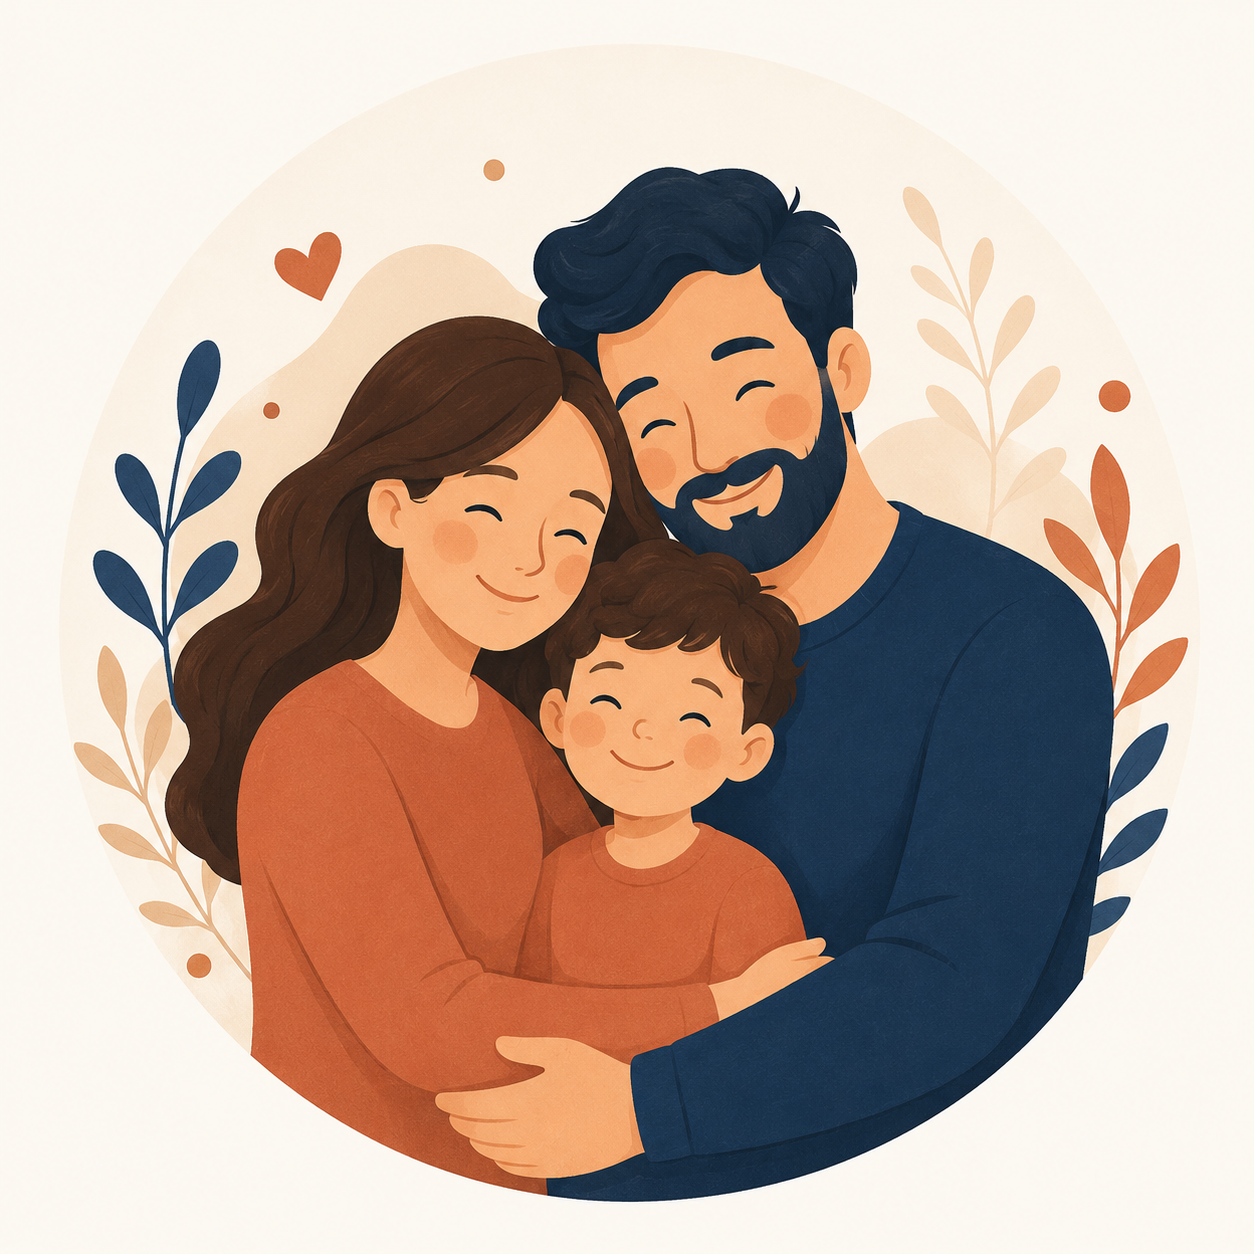
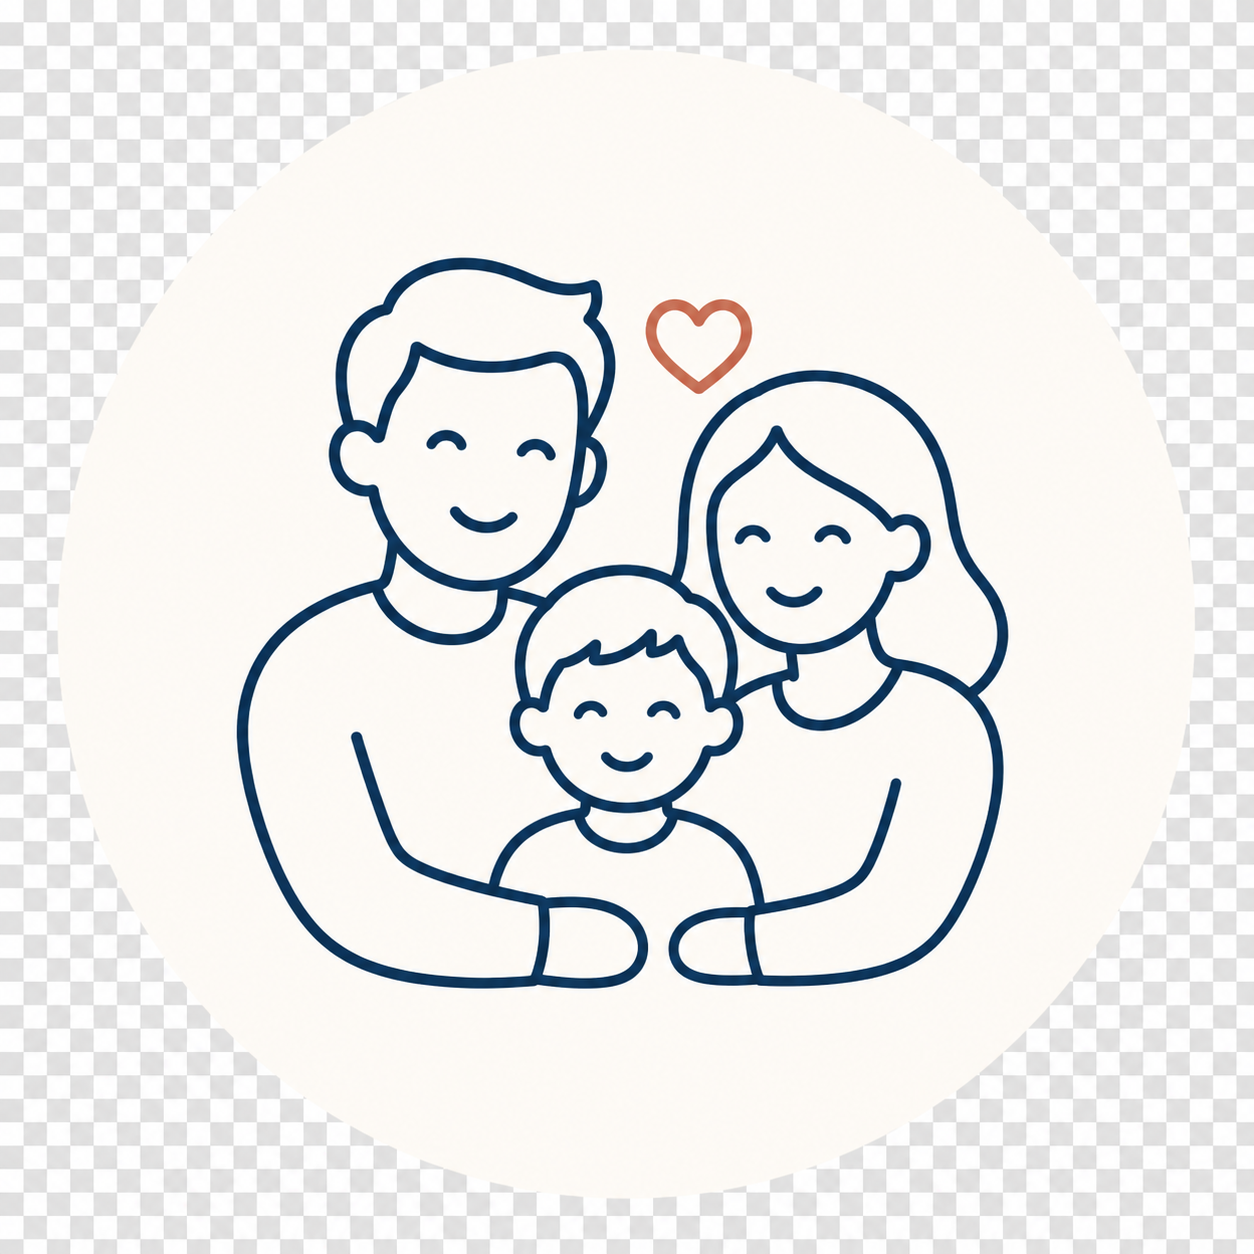
Finalize homepage visual polish and content updates
Homepage refinements:
- Reworked Why Choose Us cards to use custom image assets
- Updated Local Area action cards to use custom sea, bike and bus images
- Improved room cards to better match the site visual language
- Curated room gallery to selected WEBP images only
- Added gallery shuffle on load and continuous looping behavior
- Refined Google review card branding and local area popups
- Repositioned and polished the Local Area section

Rules page:
- Rewrote house rules in a clearer and friendlier PL/EN/DE structure
- Added key stay highlights, contact details and payment information
- Unified phone number and improved footer payment copy

Technical:
- Bumped asset version for cache busting
- Kept translations and interactions in sync across the site

diff --git a/index.html b/index.html
@@ -392,12 +392,7 @@
           <div class="local-area-actions">
             <article class="local-area-action-card">
               <div class="local-area-action-icon" aria-hidden="true">
-                <svg viewBox="0 0 48 48" fill="none">
-                  <circle cx="24" cy="15" r="5.5" stroke="currentColor" stroke-width="1.8"/>
-                  <path d="M24 4.5V8.5M34.6 8.9L31.8 11.7M39 19.5H35M13 19.5H9M16.2 11.7L13.4 8.9" stroke="currentColor" stroke-width="1.8" stroke-linecap="round"/>
-                  <path d="M8 31C12.5 28 17 28 21.5 31C26 34 30.5 34 35 31C39.5 28 44 28 48.5 31" stroke="currentColor" stroke-width="1.8" stroke-linecap="round"/>
-                  <path d="M4 37C9 34 14 34 19 37C24 40 29 40 34 37C39 34 44 34 49 37" stroke="currentColor" stroke-width="1.4" stroke-linecap="round" opacity=".75"/>
-                </svg>
+                <img src="img/sea.png" alt="">
               </div>
               <h3 data-i18n="area_item1_title">Plaża i atrakcje</h3>
               <p data-i18n="area_item1_text">Szeroka plaża, spacery i nadmorskie atrakcje w okolicy.</p>
@@ -406,12 +401,7 @@
 
             <article class="local-area-action-card">
               <div class="local-area-action-icon" aria-hidden="true">
-                <svg viewBox="0 0 48 48" fill="none">
-                  <circle cx="15.5" cy="31.5" r="6.5" stroke="currentColor" stroke-width="1.8"/>
-                  <circle cx="32.5" cy="31.5" r="6.5" stroke="currentColor" stroke-width="1.8"/>
-                  <path d="M15.5 31.5L23 18H28.5L32.5 31.5M23 18L30 31.5M19.5 18H12.5" stroke="currentColor" stroke-width="1.8" stroke-linecap="round" stroke-linejoin="round"/>
-                  <path d="M29.5 13.5H34.5" stroke="currentColor" stroke-width="1.8" stroke-linecap="round"/>
-                </svg>
+                <img src="img/bike.png" alt="">
               </div>
               <h3 data-i18n="area_item2_title">Trasy rowerowe</h3>
               <p data-i18n="area_item2_text">Rodzinne przejażdżki i ciekawe trasy w stronę Kołobrzegu oraz Dźwirzyna.</p>
@@ -420,12 +410,7 @@
 
             <article class="local-area-action-card">
               <div class="local-area-action-icon" aria-hidden="true">
-                <svg viewBox="0 0 48 48" fill="none">
-                  <rect x="13" y="9" width="22" height="24" rx="5" stroke="currentColor" stroke-width="1.8"/>
-                  <path d="M18 15H30M18 21H30M16 38L20.5 33.5M32 38L27.5 33.5" stroke="currentColor" stroke-width="1.8" stroke-linecap="round"/>
-                  <circle cx="19" cy="27" r="1.6" fill="currentColor"/>
-                  <circle cx="29" cy="27" r="1.6" fill="currentColor"/>
-                </svg>
+                <img src="img/bus.png" alt="">
               </div>
               <h3 data-i18n="area_item3_title">Transport</h3>
               <p data-i18n="area_item3_text">Sprawdź trasę do Domu Latarnika i wygodnie zaplanuj dojazd.</p>

diff --git a/assets/index.css b/assets/index.css
@@ -874,12 +874,25 @@
       height:112px;
       border-radius:999px;
       margin-bottom:18px;
+      overflow:hidden;
       background:radial-gradient(circle at 35% 35%,#fff8f0 0%,#f9efe1 100%);
       color:var(--navy);
+      box-shadow:0 12px 26px rgba(14,40,64,.12);
+      transition:transform .4s ease,box-shadow .4s ease;
     }
-    .local-area-action-icon svg{
-      width:50px;
-      height:50px;
+    .local-area-action-icon img{
+      width:100%;
+      height:100%;
+      object-fit:cover;
+      transform:scale(1.02);
+      transition:transform .45s ease;
+    }
+    .local-area-action-card:hover .local-area-action-icon{
+      transform:scale(1.05);
+      box-shadow:0 16px 30px rgba(14,40,64,.16);
+    }
+    .local-area-action-card:hover .local-area-action-icon img{
+      transform:scale(1.12);
     }
     .local-area-action-card h3{
       margin:0 0 8px;
@@ -1205,25 +1218,53 @@
       gap:22px;
     }
     .room-card{
+      display:flex;
+      flex-direction:column;
+      padding:14px;
       overflow:hidden;
+      background:linear-gradient(180deg,#fff 0%,#fcfaf6 100%);
+      box-shadow:0 18px 38px rgba(14,40,64,.1);
+      transition:transform .32s ease, box-shadow .32s ease, border-color .32s ease;
+      border:1px solid rgba(21,57,85,.08);
     }
     .room-card img{
       width:100%;
-      aspect-ratio:4/3;
+      aspect-ratio:5/4;
       object-fit:cover;
+      border-radius:18px;
+      box-shadow:0 10px 24px rgba(14,40,64,.1);
+      transition:transform .45s ease, filter .3s ease;
+    }
+    .room-card:hover{
+      transform:translateY(-5px);
+      box-shadow:0 24px 44px rgba(14,40,64,.14);
+      border-color:rgba(183,110,83,.18);
+    }
+    .room-card:hover img{
+      transform:scale(1.03);
+      filter:saturate(1.02);
     }
     .room-body{
-      padding:22px;
+      padding:20px 10px 8px;
+      display:flex;
+      flex:1;
+      flex-direction:column;
     }
     .room-body h3{
       margin:0 0 10px;
       color:var(--navy-strong);
-      font-size:1.06rem;
+      font-size:1.18rem;
       letter-spacing:.01em;
     }
     .room-body p{
-      margin:0 0 16px;
+      margin:0 0 18px;
       color:var(--muted);
+      line-height:1.62;
+      max-width:32ch;
+    }
+    .room-body .button{
+      margin-top:auto;
+      align-self:flex-start;
     }
 
     .gallery-clean{
